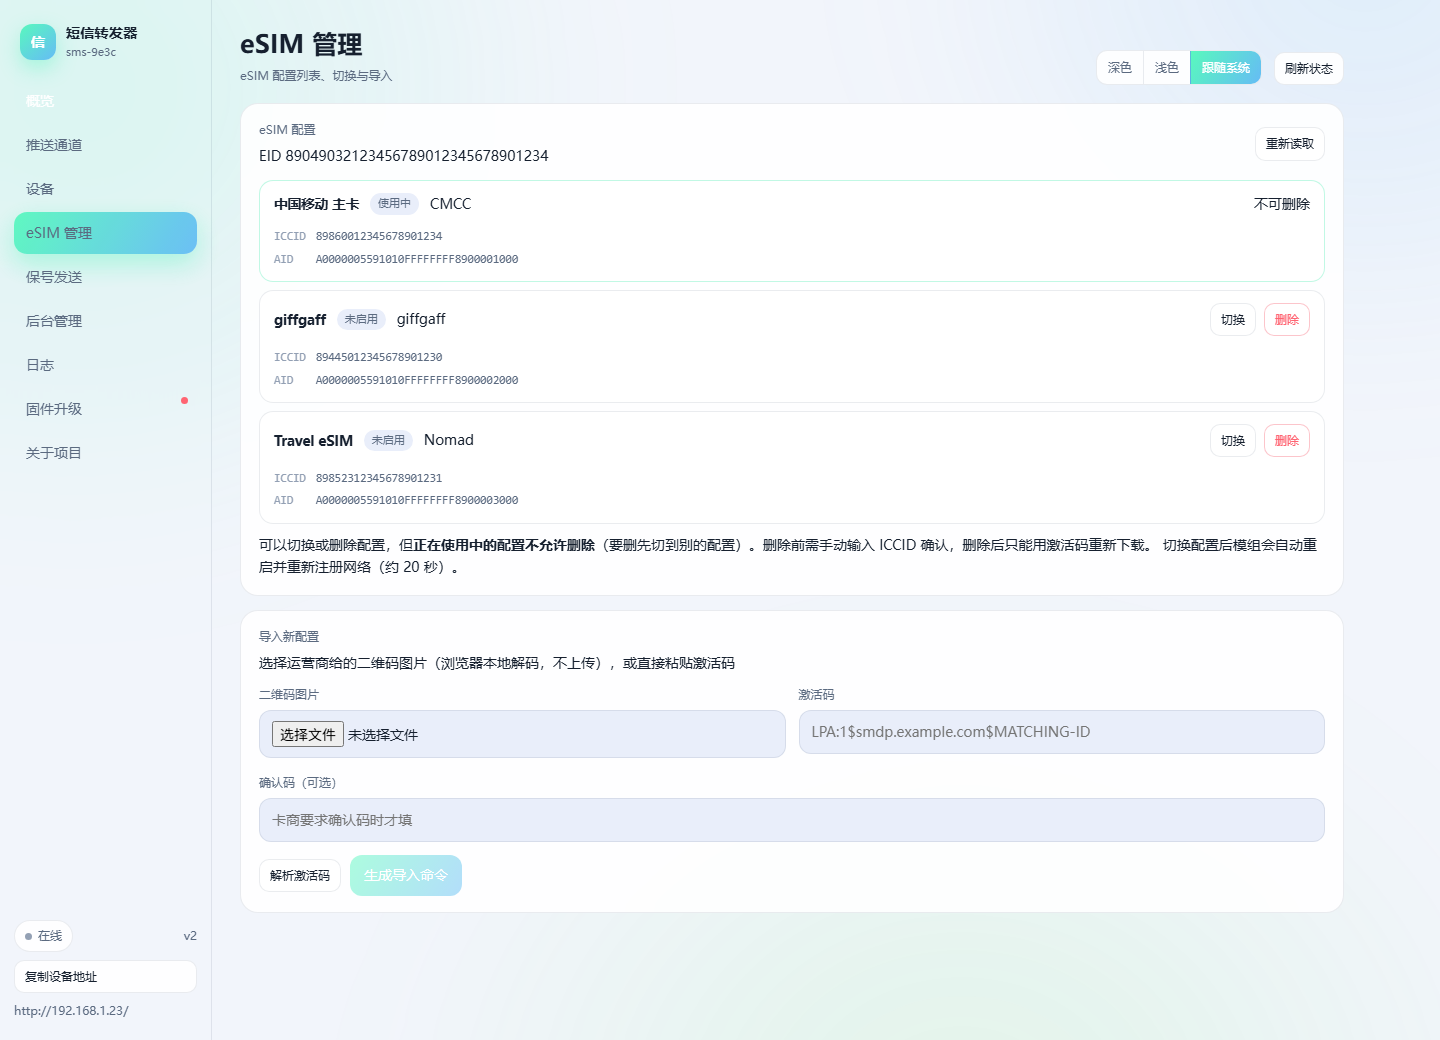
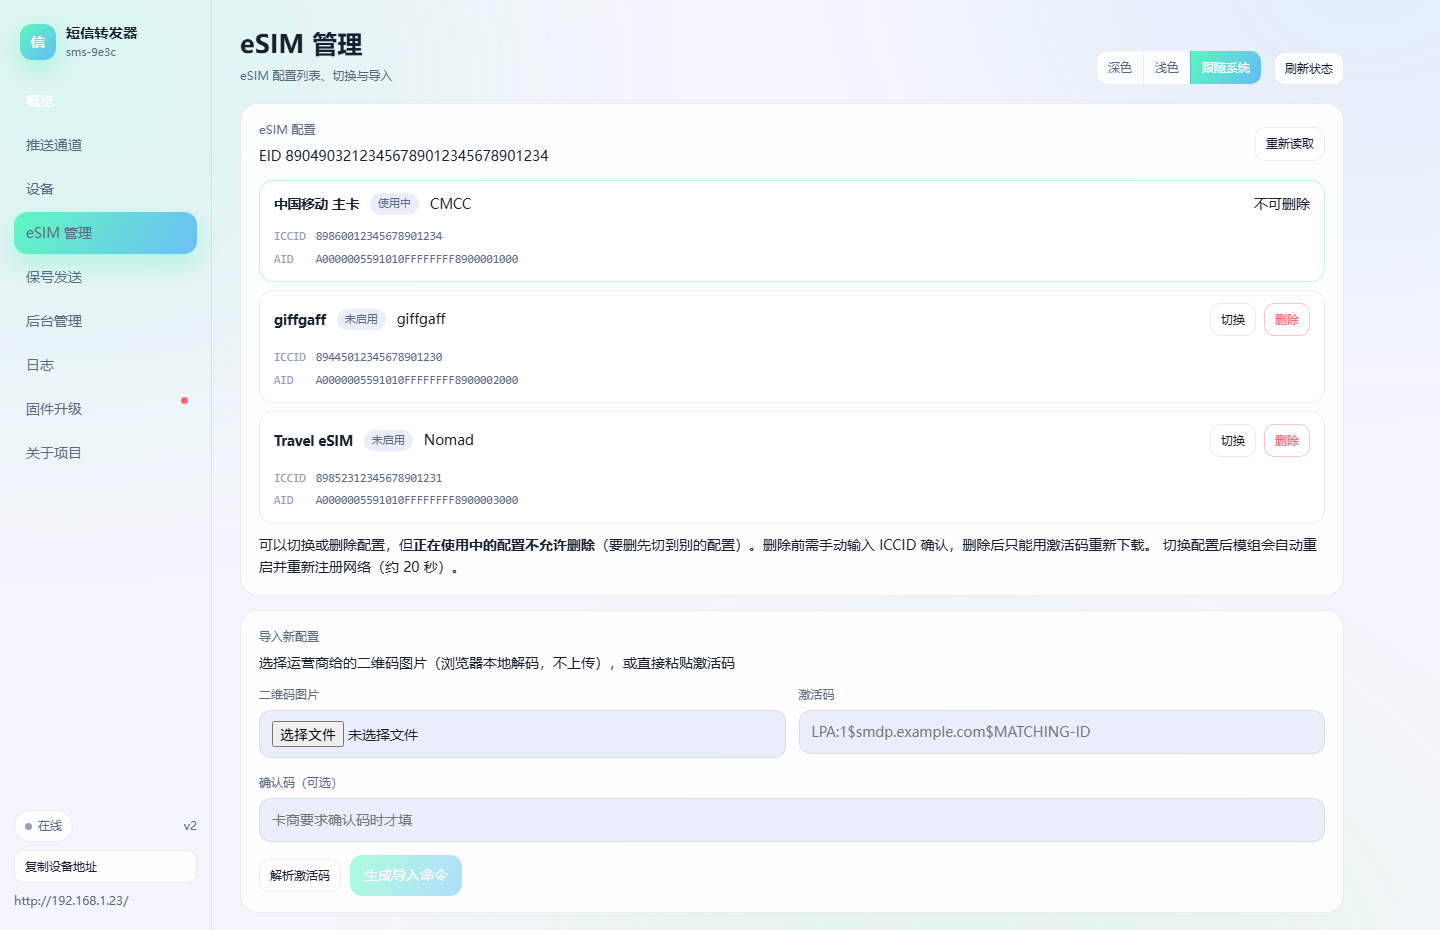
docs(readme): eSIM 截图改为与概览/推送并排的三列表格
close #65

diff --git a/README.md b/README.md
@@ -43,12 +43,9 @@
 固件内置完整网页（约 250 KB，含本地二维码解码库，直接嵌在 Flash 里），手机上也能用。
 主题支持深色 / 浅色 / 跟随系统。
 
-| 概览 | 推送通道 |
-|---|---|
-| <img src="assets/web-overview.png" alt="概览页"> | <img src="assets/web-push.png" alt="推送通道页"> |
-
-<p align="center"><img src="assets/web-esim.png" alt="eSIM 管理页" width="92%"><br>
-<sub>eSIM 管理：EID、卡内配置列表、切换 / 删除，以及扫码或粘贴激活码的导入入口</sub></p>
+| 概览 | 推送通道 | eSIM 管理 |
+|---|---|---|
+| <img src="assets/web-overview.png" alt="概览页"> | <img src="assets/web-push.png" alt="推送通道页"> | <img src="assets/web-esim.png" alt="eSIM 管理页"> |
 
 ## 功能一览
 
